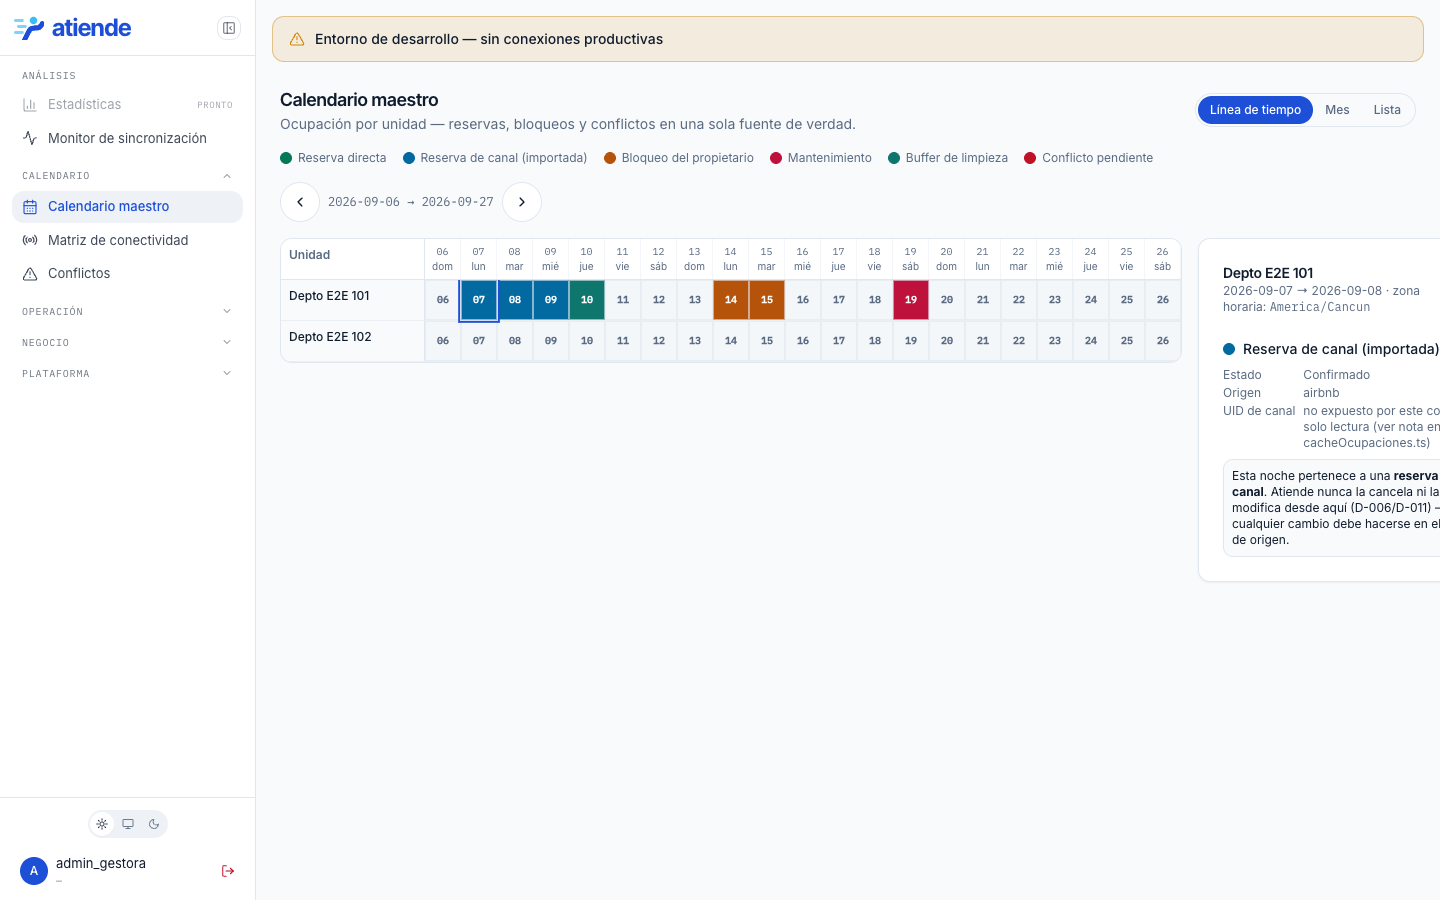
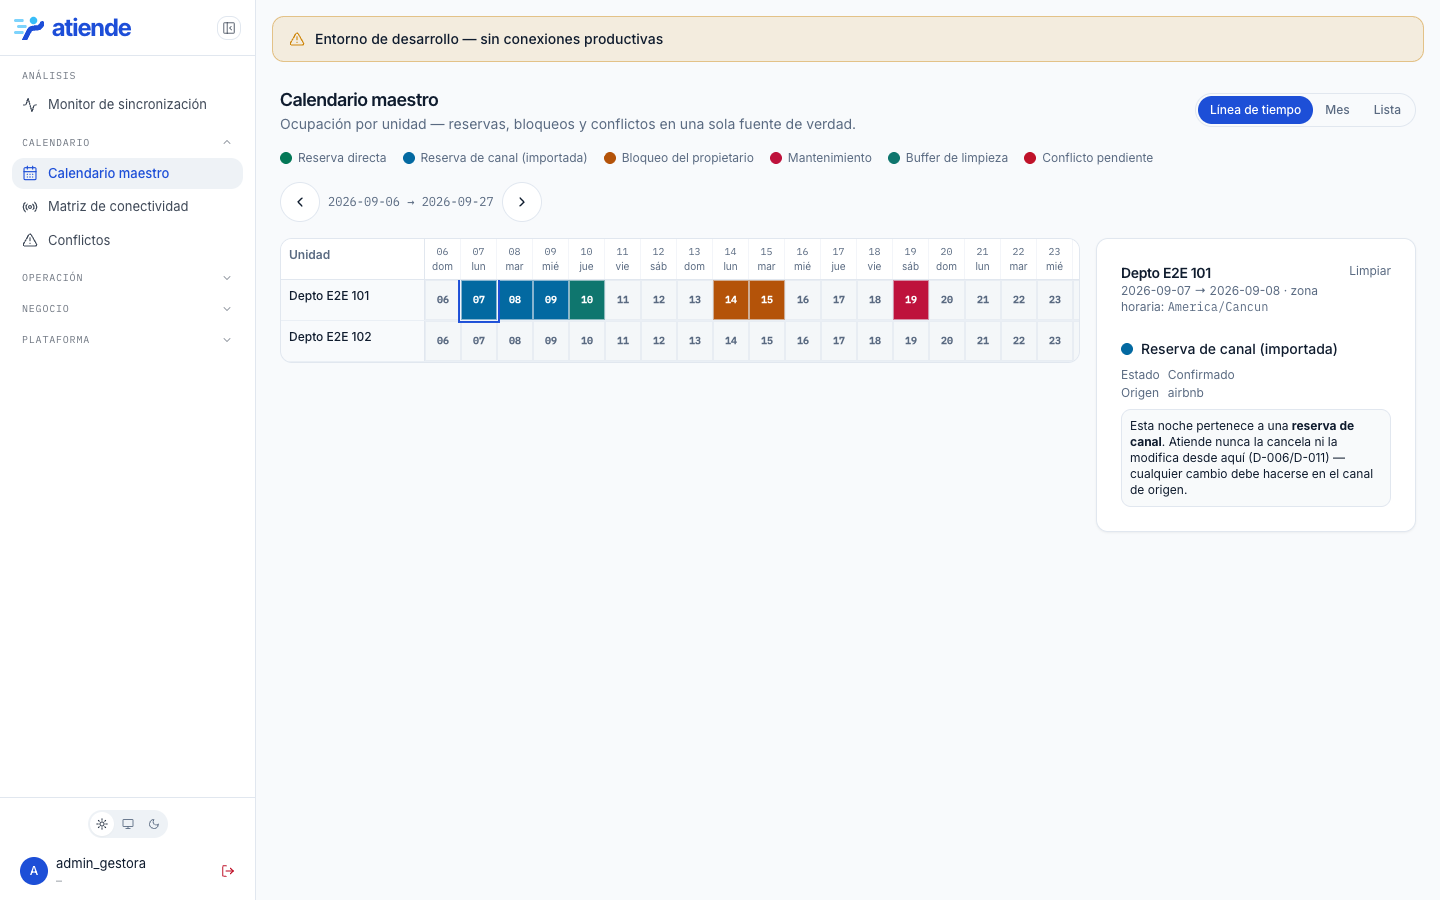
fix(web): corrige truncamiento del panel de detalle en calendario maestro a 1440px
El item de grid del contenido izquierdo tenía min-width:auto (default
de CSS Grid), así que la tabla del timeline (min-w-max, con su propio
overflow-x-auto) empujaba la pista 1fr completa — y con ella la
página entera — más allá del viewport en vez de desbordar solo dentro
de su propio contenedor con scroll. El panel derecho de 320px quedaba
literalmente fuera de la ventana visible, cortando su texto (visto en
docs/capturas/lote4-calendario-timeline.png a 1440px). Se fuerza
minmax(0,1fr) en la pista y min-w-0 en el item para que el overflow
se quede donde ya estaba pensado que ocurriera. Captura regenerada
contra la API real con Playwright/Chrome (misma prueba e2e de Lote 4).

Claude-Session: https://claude.ai/code/session_01N3o3v4G7LwHsEcGdAbtbBv

diff --git a/apps/web/src/pages/calendario/CalendarioMaestroPage.tsx b/apps/web/src/pages/calendario/CalendarioMaestroPage.tsx
@@ -116,8 +116,16 @@ export function CalendarioMaestroPage() {
         </div>
       )}
 
-      <div className="grid grid-cols-1 lg:grid-cols-[1fr_320px] gap-4 items-start">
-        <div>
+      {/* `min-w-0` en ambas columnas: por defecto un item de grid tiene
+          `min-width: auto`, que nunca se encoge por debajo del ancho
+          intrínseco de su contenido — la tabla del timeline (`min-w-max`,
+          con su propio `overflow-x-auto`) empujaba entonces la pista
+          `1fr` completa, y con ella la página entera, más allá del
+          viewport, cortando el panel de detalle derecho en vez de
+          desbordar solo dentro de su propio contenedor con scroll (visto
+          a 1440px en docs/capturas/lote4-calendario-timeline.png). */}
+      <div className="grid grid-cols-1 lg:grid-cols-[minmax(0,1fr)_320px] gap-4 items-start">
+        <div className="min-w-0">
           {(unidadesQuery.cargando || calendariosQuery.cargando) && (
             <Card>
               <CardContent className="p-4 text-sm text-muted-foreground">Cargando calendario…</CardContent>
